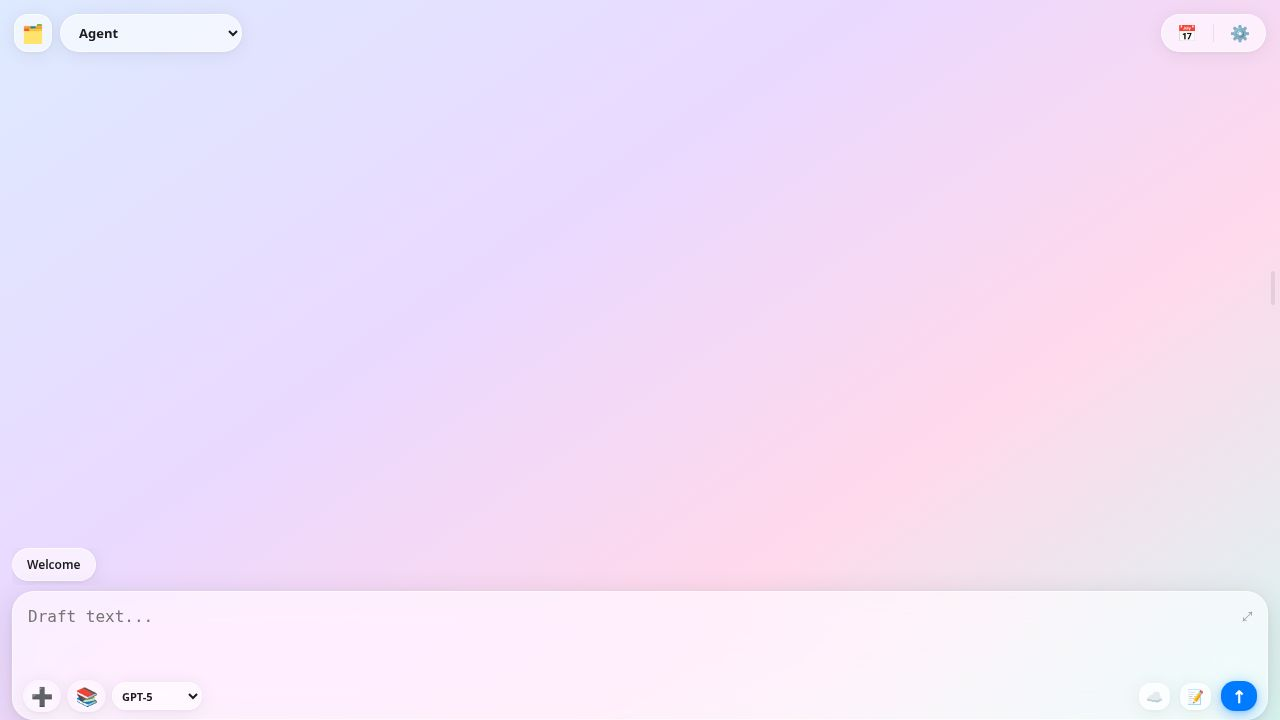
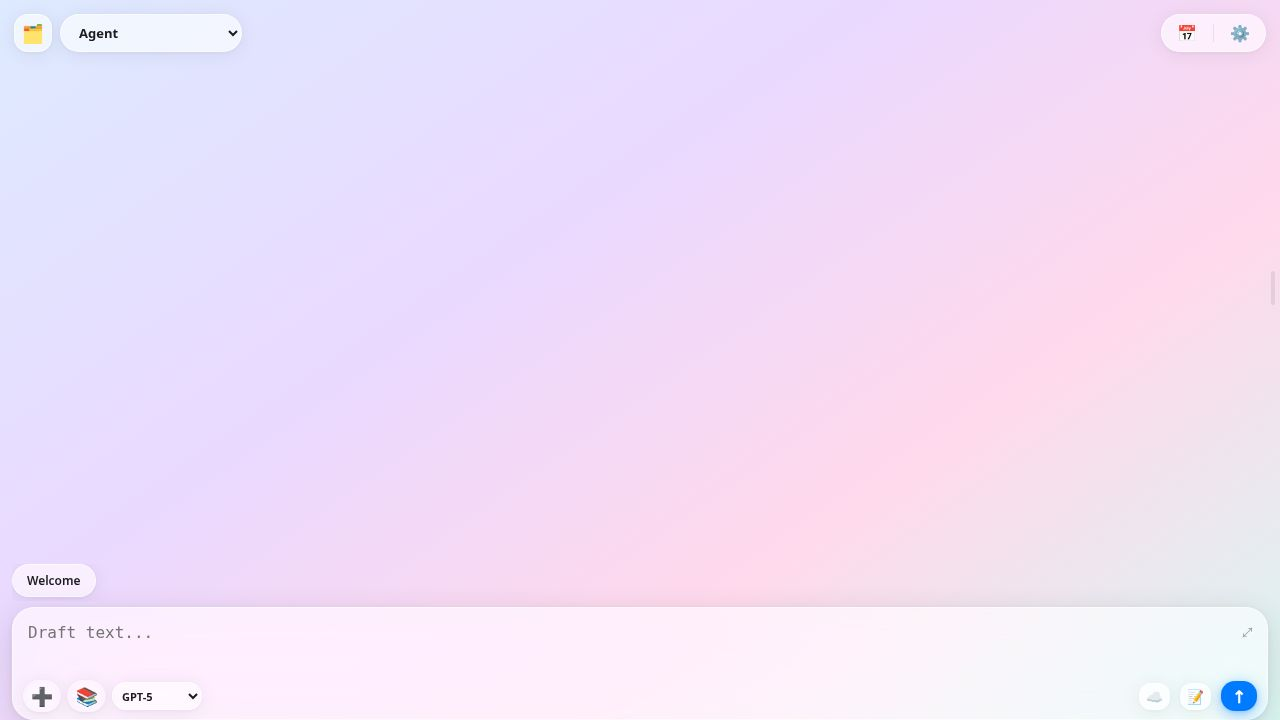
Restored to 'ac119a760e0b2145d7d24db5afbdec6ed4bd7766'
Replit-Restored-To: ac119a760e0b2145d7d24db5afbdec6ed4bd7766

Changed region(s): [[0.0, 0.7639, 0.75, 0.8861]]

diff --git a/artifacts/agentgpt/index.html b/artifacts/agentgpt/index.html
@@ -253,7 +253,7 @@ code { font-family: "SF Mono", ui-monospace, monospace; }
 }
 #attachment-preview { display: none; padding: 8px 14px 0 14px; gap: 8px; overflow-x: auto; white-space: nowrap; border-bottom: 0.5px solid var(--border); scrollbar-width: none; border-top-left-radius: 22px; border-top-right-radius: 22px; }
 #attachment-preview::-webkit-scrollbar { display: none; }
-#note-input { width: 100%; font-size: 16px; line-height: 1.5; border: none; border-radius: 22px; background: transparent; color: var(--text); outline: none; resize: none; min-height: 62px; max-height: 200px; padding: 13px 36px 66px 15px; transition: height 0.2s ease; }
+#note-input { width: 100%; font-size: 16px; line-height: 1.5; border: none; border-radius: 22px; background: transparent; color: var(--text); outline: none; resize: none; min-height: 62px; max-height: 200px; padding: 13px 36px 50px 15px; transition: height 0.2s ease; }
 #expand-btn { position: absolute; top: 9px; right: 10px; font-size: 16px; cursor: pointer; opacity: 0.4; z-index: 30; padding: 4px; transition: opacity 0.2s; }
 #expand-btn:active { opacity: 0.8; }
 
@@ -294,7 +294,6 @@ code { font-family: "SF Mono", ui-monospace, monospace; }
   pointer-events: auto;
   box-shadow: var(--glass-shadow-lg);
   border-radius: 20px;
-  overscroll-behavior: contain;
 }
 .side-panel.open { right: 0; }
 .left-panel {
@@ -324,11 +323,8 @@ code { font-family: "SF Mono", ui-monospace, monospace; }
   pointer-events: auto;
   box-shadow: var(--glass-shadow-lg);
   border-radius: 20px;
-  overscroll-behavior: contain;
 }
 .ctx-panel.open { right: 0; }
-/* Prevent scroll in panel children from bleeding into the chat scroll area */
-.side-panel > div, .ctx-panel > div { overscroll-behavior: contain; }
 
 .panel-header {
   padding: 13px 16px;
@@ -608,21 +604,9 @@ code { font-family: "SF Mono", ui-monospace, monospace; }
             <select id="def-prof-f" class="pp-input" style="flex:1;" onchange="saveMasterConfig()"></select>
             <select id="def-mod-f" class="pp-input" style="flex:1;" onchange="saveMasterConfig()"></select>
         </div>
-        <small style="font-weight:800; font-size:11px; color:#888; display:block; margin-top:10px;">BACKGROUND MODELS</small>
-        <div style="display:flex; flex-direction:column; gap:6px; margin-top:6px;">
-            <div style="display:flex; align-items:center; gap:8px;">
-                <small style="font-size:10px; color:#aaa; width:74px; flex-shrink:0;">Auto-title</small>
-                <select id="title-model-f" class="pp-input" style="flex:1;" onchange="saveMasterConfig()"></select>
-            </div>
-            <div style="display:flex; align-items:center; gap:8px;">
-                <small style="font-size:10px; color:#aaa; width:74px; flex-shrink:0;">Extraction</small>
-                <select id="extract-model-f" class="pp-input" style="flex:1;" onchange="saveMasterConfig()"></select>
-            </div>
-            <div style="display:flex; align-items:center; gap:8px;">
-                <small style="font-size:10px; color:#aaa; width:74px; flex-shrink:0;">Suggestions</small>
-                <select id="suggest-model-f" class="pp-input" style="flex:1;" onchange="saveMasterConfig()"></select>
-            </div>
-        </div>
+        <small style="font-weight:800; font-size:11px; color:#888; display:block; margin-top:10px;">BACKGROUND MODEL</small>
+        <small style="font-size:10px; color:#aaa; display:block; margin-bottom:6px;">Used for auto-titling, variable extraction &amp; suggestions</small>
+        <select id="bg-model-f" class="pp-input" style="width:100%;" onchange="saveMasterConfig()"></select>
         
         <hr style="border:none; border-top:1px solid var(--border); margin: 24px 0;">
         <div style="display:flex; justify-content:space-between; align-items:center; margin-bottom:8px;">
@@ -1051,7 +1035,7 @@ async function init() {
     }
     AI_PROFILES = sanitizeImport(await dbHelper.get('profiles') || DEFAULT_DATA.profiles, 'profiles'); PROMPTS = sanitizeImport(await dbHelper.get('prompts') || DEFAULT_DATA.prompts, 'prompts'); TEMPLATES = sanitizeImport(await dbHelper.get('templates') || DEFAULT_DATA.templates, 'templates'); API_SERVICES = sanitizeImport(await dbHelper.get('tools') || DEFAULT_DATA.tools, 'tools'); AI_MODELS = sanitizeImport(await dbHelper.get('models') || DEFAULT_DATA.models, 'models'); GLOBAL_DATASETS = await dbHelper.get('datasets') || {};
     const storedCfg = await dbHelper.get('config') || {};
-    CONFIG = { ai_key: storedCfg.ai_key || "", def_profile: storedCfg.def_profile || "", def_model: storedCfg.def_model || "", title_model: storedCfg.title_model || storedCfg.bg_model || "", extract_model: storedCfg.extract_model || storedCfg.bg_model || "", suggest_model: storedCfg.suggest_model || storedCfg.bg_model || "", ai_gen_prompts: storedCfg.ai_gen_prompts || { ...DEFAULT_DATA.ai_prompts }, ai_gen_models: storedCfg.ai_gen_models || {}, fb_api: storedCfg.fb_api || "", fb_project: storedCfg.fb_project || "", fb_auto: storedCfg.fb_auto || false, def_ctx: storedCfg.def_ctx || "all", cal_profiles: storedCfg.cal_profiles || null };
+    CONFIG = { ai_key: storedCfg.ai_key || "", def_profile: storedCfg.def_profile || "", def_model: storedCfg.def_model || "", bg_model: storedCfg.bg_model || "", ai_gen_prompts: storedCfg.ai_gen_prompts || { ...DEFAULT_DATA.ai_prompts }, ai_gen_models: storedCfg.ai_gen_models || {}, fb_api: storedCfg.fb_api || "", fb_project: storedCfg.fb_project || "", fb_auto: storedCfg.fb_auto || false, def_ctx: storedCfg.def_ctx || "all", cal_profiles: storedCfg.cal_profiles || null };
     chatHistories = await dbHelper.get('histories') || {};
     let migratedDs = false; Object.keys(chatHistories).forEach(p => { if (chatHistories[p].vars) { Object.assign(GLOBAL_DATASETS, chatHistories[p].vars); delete chatHistories[p].vars; migratedDs = true; } });
     if (migratedDs) { await dbHelper.set('histories', chatHistories); await dbHelper.set('datasets', GLOBAL_DATASETS); }
@@ -1068,14 +1052,14 @@ async function refreshUI() {
     const currentGlobalModel = document.getElementById('chatModel').value || CONFIG.def_model;
     let profOptions = AI_PROFILES.map(p => `<option value="${p.label}">${p.label}</option>`).join(''); profOptions += `<option value="_new_" style="color:var(--accent); font-weight:bold;">+ Create New Profile</option>`;
     document.getElementById('main-profile-sel').innerHTML = profOptions; document.getElementById('main-profile-sel').value = activeProfileLabel;
-    const mH = AI_MODELS.map(m => `<option value="${m.text}">${m.label}</option>`).join(''); const bgMH = `<option value="">(same as chat)</option>` + mH; document.getElementById('chatModel').innerHTML = mH; document.getElementById('ai-gen-model').innerHTML = mH; document.getElementById('p-model-set').innerHTML = `<option value="">(Keep Global Model)</option>` + mH; document.getElementById('title-model-f').innerHTML = bgMH; document.getElementById('extract-model-f').innerHTML = bgMH; document.getElementById('suggest-model-f').innerHTML = bgMH;
+    const mH = AI_MODELS.map(m => `<option value="${m.text}">${m.label}</option>`).join(''); document.getElementById('chatModel').innerHTML = mH; document.getElementById('ai-gen-model').innerHTML = mH; document.getElementById('p-model-set').innerHTML = `<option value="">(Keep Global Model)</option>` + mH; document.getElementById('bg-model-f').innerHTML = `<option value="">(same as chat)</option>` + mH;
     if(currentGlobalModel) document.getElementById('chatModel').value = currentGlobalModel;
     renderSessionVariables(); renderInlinePrompts();
     document.getElementById('context-list').innerHTML = CONTEXT_LINES.map((l,i) => `<li class="list-item ${cutIdx!==-1 && i<=cutIdx?'in-cut':''}"><input type="checkbox" class="ctx-checkbox" value="${i}" onchange="updateCtxSelection()"><div style="flex:1; white-space:normal; word-break:break-word; padding-right:8px; cursor:pointer;" onclick="insertContextAtCursor(${i})">${l}</div><div class="btn-row"><div class="inline-btn" onclick="event.stopPropagation(); cutIdx=(cutIdx===${i})?-1:${i}; refreshUI();">${cutIdx===i?'✂':'|'}</div></div></li>`).join('');
     updateCtxSelection(); 
     let ctxLabel = cutIdx === -1 ? '☁' : '🌦'; document.getElementById('ctx-indicator').innerText = ctxLabel; document.getElementById('ctx-btn-all').classList.toggle('active', cutIdx === CONTEXT_LINES.length - 1); document.getElementById('ctx-btn-none').classList.toggle('active', cutIdx === -1);
     document.getElementById('def-ctx-f').value = CONFIG.def_ctx || "all"; document.getElementById('def-prof-f').innerHTML = AI_PROFILES.map(p => `<option value="${p.label}">${p.label}</option>`).join(''); document.getElementById('def-mod-f').innerHTML = AI_MODELS.map(m => `<option value="${m.text}">${m.label}</option>`).join(''); document.getElementById('def-prof-f').value = CONFIG.def_profile; document.getElementById('def-mod-f').value = CONFIG.def_model;
-    document.getElementById('fb-project-f').value = CONFIG.fb_project || ""; document.getElementById('fb-api-f').value = CONFIG.fb_api || ""; document.getElementById('fb-auto-f').checked = CONFIG.fb_auto || false; document.getElementById('title-model-f').value = CONFIG.title_model || ""; document.getElementById('extract-model-f').value = CONFIG.extract_model || ""; document.getElementById('suggest-model-f').value = CONFIG.suggest_model || ""; document.getElementById('storage-usage-disp').innerText = (await getStorageSize()) + " MB (DB)";
+    document.getElementById('fb-project-f').value = CONFIG.fb_project || ""; document.getElementById('fb-api-f').value = CONFIG.fb_api || ""; document.getElementById('fb-auto-f').checked = CONFIG.fb_auto || false; document.getElementById('bg-model-f').value = CONFIG.bg_model || ""; document.getElementById('storage-usage-disp').innerText = (await getStorageSize()) + " MB (DB)";
 }
 
 function updateCtxSelection() { let boxes = document.querySelectorAll('.ctx-checkbox:checked'); let btn = document.getElementById('ctx-bulk-btn-wrapper'); if(boxes.length > 0) { btn.style.display = 'block'; btn.querySelector('button').innerText = `Insert ${boxes.length} Selected ⟶`; } else { btn.style.display = 'none'; } }
@@ -1159,11 +1143,9 @@ async function editExtractionRules() { let p = AI_PROFILES.find(x => x.label ===
 async function toggleVarLock(key) { let vars = getActiveVars(); if(typeof vars[key] === 'string') vars[key] = { value: vars[key], locked: false }; if(vars[key]) { vars[key].locked = !vars[key].locked; } else { vars[key] = { value: "", locked: true }; } await saveAll(); renderSessionVariables(); }
 async function deleteVariable(key) { openConfirm(`Delete variable {{${key}}} from profile?`, async () => { let p = AI_PROFILES.find(x => x.label === activeProfileLabel); if(p.expected_vars) p.expected_vars = p.expected_vars.filter(v => v !== key); let vars = getActiveVars(); if(vars) delete vars[key]; await saveAll(); renderSessionVariables(); }); }
 async function addManualVariable() { let key = await promptUserAsync("Enter variable name (e.g. order_id):"); if(!key) return; let p = AI_PROFILES.find(x => x.label === activeProfileLabel); if(!p.expected_vars) p.expected_vars = []; if(!p.expected_vars.includes(key)) p.expected_vars.push(key); let val = await promptUserAsync(`Enter value for {{${key}}}:`); if(val === null) return; let vars = getActiveVars(); vars[key] = { value: val, locked: false }; await saveAll(); renderSessionVariables(); }
-function getTitleModel()   { return CONFIG.title_model   || document.getElementById('chatModel').value; }
-function getExtractModel() { return CONFIG.extract_model || document.getElementById('chatModel').value; }
-function getSuggestModel() { return CONFIG.suggest_model || document.getElementById('chatModel').value; }
+function getBgModel() { return CONFIG.bg_model || document.getElementById('chatModel').value; }
 
-async function suggestVariablesAI() { if(!CONFIG.ai_key) return notify("Missing API Key", "#ff3b30"); notify("Suggesting variables...", "#007aff"); let p = AI_PROFILES.find(x => x.label === activeProfileLabel); let extra = document.getElementById('ai-suggest-prompt').value; let sysPrompt = `Based on the profile instructions: "${p.text}", suggest a JSON array of 3 to 5 short variable names (snake_case) that would be useful to extract and track in conversations. Return ONLY a valid JSON array of strings. e.g. ["customer_name", "order_id"]`; if(extra) sysPrompt += `\nUser Context/Requirement: ${extra}`; try { const res = await fetch("https://api.openai.com/v1/chat/completions", { method: "POST", headers: { "Content-Type": "application/json", "Authorization": `Bearer ${CONFIG.ai_key}` }, body: JSON.stringify({ model: getSuggestModel(), messages: [{role:"user", content: sysPrompt}] }) }); if(!res.ok) throw new Error("API Failure"); const d = await res.json(); let arr = JSON.parse(d.choices[0].message.content.replace(/```json/g, '').replace(/```/g, '').trim()); if(!p.expected_vars) p.expected_vars = []; let added = 0; arr.forEach(v => { if(!p.expected_vars.includes(v)) { p.expected_vars.push(v); added++; } }); await saveAll(); renderSessionVariables(); notify(`Added ${added} new variables!`, "#34c759"); document.getElementById('ai-suggest-prompt').value = ""; } catch(e) { notify("Failed to suggest.", "#ff3b30"); } }
+async function suggestVariablesAI() { if(!CONFIG.ai_key) return notify("Missing API Key", "#ff3b30"); notify("Suggesting variables...", "#007aff"); let p = AI_PROFILES.find(x => x.label === activeProfileLabel); let extra = document.getElementById('ai-suggest-prompt').value; let sysPrompt = `Based on the profile instructions: "${p.text}", suggest a JSON array of 3 to 5 short variable names (snake_case) that would be useful to extract and track in conversations. Return ONLY a valid JSON array of strings. e.g. ["customer_name", "order_id"]`; if(extra) sysPrompt += `\nUser Context/Requirement: ${extra}`; try { const res = await fetch("https://api.openai.com/v1/chat/completions", { method: "POST", headers: { "Content-Type": "application/json", "Authorization": `Bearer ${CONFIG.ai_key}` }, body: JSON.stringify({ model: getBgModel(), messages: [{role:"user", content: sysPrompt}] }) }); if(!res.ok) throw new Error("API Failure"); const d = await res.json(); let arr = JSON.parse(d.choices[0].message.content.replace(/```json/g, '').replace(/```/g, '').trim()); if(!p.expected_vars) p.expected_vars = []; let added = 0; arr.forEach(v => { if(!p.expected_vars.includes(v)) { p.expected_vars.push(v); added++; } }); await saveAll(); renderSessionVariables(); notify(`Added ${added} new variables!`, "#34c759"); document.getElementById('ai-suggest-prompt').value = ""; } catch(e) { notify("Failed to suggest.", "#ff3b30"); } }
 
 async function autoExtractVariables(isManual = false) {
     if(!CONFIG.ai_key) return; let p = AI_PROFILES.find(x => x.label === activeProfileLabel);
@@ -1178,7 +1160,7 @@ async function autoExtractVariables(isManual = false) {
     let historyText = allUserMsgs.join('\n'); let sysPrompt = `Extract values for these exact keys based on the chronological conversation history below (latest data is at the bottom): ${JSON.stringify(unlockedVars)}. Prefer the newest information if there are conflicts. Return a flat JSON object. If you cannot determine a value, omit the key or set it to empty string. Respond ONLY with valid JSON.`;
     if(p.extraction_rules) { sysPrompt += `\n\nFollow these specific rules for extraction:\n${p.extraction_rules}`; }
     try {
-        const res = await fetch("https://api.openai.com/v1/chat/completions", { method: "POST", headers: { "Content-Type": "application/json", "Authorization": `Bearer ${CONFIG.ai_key}` }, body: JSON.stringify({ model: getExtractModel(), messages: [{ role: "system", content: sysPrompt }, { role: "user", content: `Conversation:\n${historyText}` }], response_format: { type: "json_object" } }) });
+        const res = await fetch("https://api.openai.com/v1/chat/completions", { method: "POST", headers: { "Content-Type": "application/json", "Authorization": `Bearer ${CONFIG.ai_key}` }, body: JSON.stringify({ model: getBgModel(), messages: [{ role: "system", content: sysPrompt }, { role: "user", content: `Conversation:\n${historyText}` }], response_format: { type: "json_object" } }) });
         if(!res.ok) throw new Error("API Limit/Failure");
         const d = await res.json(); if (d.error) throw new Error(d.error.message); if (!d.choices) throw new Error("Invalid API response");
         let rawContent = d.choices[0].message.content.trim(); let extractedObj;
@@ -1206,14 +1188,14 @@ async function generateChatTitleAI(chatId) {
     if(!CONFIG.ai_key) return; let sData = getSessions(); let cur = sData.list.find(x => String(x.id) === String(chatId)); if(!cur || cur.msgs.length < 2) return; 
     let userMsgs = cur.msgs.filter(m => m.role === 'user').map(m => getTextFromContent(m.content)).join('\n').substring(0, 500);
     let sysPrompt = `Summarize the core topic of these messages into a very short title (2-5 words max). Return ONLY the title text without quotes.`;
-    try { const res = await fetch("https://api.openai.com/v1/chat/completions", { method: "POST", headers: { "Content-Type": "application/json", "Authorization": `Bearer ${CONFIG.ai_key}` }, body: JSON.stringify({ model: getTitleModel(), messages: [{ role: "system", content: sysPrompt }, { role: "user", content: userMsgs }] }) }); const d = await res.json(); let newTitle = d.choices[0].message.content.replace(/["']/g, '').trim(); cur.title = newTitle; await saveAll(); } catch(e) {}
+    try { const res = await fetch("https://api.openai.com/v1/chat/completions", { method: "POST", headers: { "Content-Type": "application/json", "Authorization": `Bearer ${CONFIG.ai_key}` }, body: JSON.stringify({ model: getBgModel(), messages: [{ role: "system", content: sysPrompt }, { role: "user", content: userMsgs }] }) }); const d = await res.json(); let newTitle = d.choices[0].message.content.replace(/["']/g, '').trim(); cur.title = newTitle; await saveAll(); } catch(e) {}
 }
 
 async function generateDatasetTitleAI(var_id) {
     if(!CONFIG.ai_key) return; let ds = GLOBAL_DATASETS[var_id]; if(!ds || !ds.data || Object.keys(ds.data).length === 0) return;
     let valStr = JSON.stringify(Object.fromEntries(Object.entries(ds.data).map(([k,v]) => [k, v.value]))); let sysPrompt = `Based on these extracted variables, generate a short title (2-5 words max) identifying this data set (e.g. "John's Flight Booking", "Project Alpha Specs"). Return ONLY the title text without quotes. Data: ${valStr}`;
     try { 
-        const res = await fetch("https://api.openai.com/v1/chat/completions", { method: "POST", headers: { "Content-Type": "application/json", "Authorization": `Bearer ${CONFIG.ai_key}` }, body: JSON.stringify({ model: getTitleModel(), messages: [{ role: "system", content: sysPrompt }] }) }); 
+        const res = await fetch("https://api.openai.com/v1/chat/completions", { method: "POST", headers: { "Content-Type": "application/json", "Authorization": `Bearer ${CONFIG.ai_key}` }, body: JSON.stringify({ model: getBgModel(), messages: [{ role: "system", content: sysPrompt }] }) }); 
         const d = await res.json(); ds.title = d.choices[0].message.content.replace(/["']/g, '').trim(); 
         await saveAll(); 
         let sData = getSessions(); let cur = sData.list.find(x => String(x.id) === String(sData.current)); 
@@ -1306,12 +1288,7 @@ function escapeHtmlOutsideFences(text) {
 }
 
 function renderChatHistory() {
-    const container = document.getElementById('chat-container');
-    // Skip full rebuild if content hasn't changed — prevents flicker during background syncs
-    const fp = chatHistory.length + '|' + chatHistory.reduce((s, m) => s + getTextFromContent(m.content).length, 0);
-    if(container.dataset.fp === fp && container.children.length > 0) return;
-    container.dataset.fp = fp;
-    container.innerHTML = "";
+    const container = document.getElementById('chat-container'); container.innerHTML = "";
     chatHistory.forEach((msg, idx) => {
         if(idx === 0 && msg.role === 'developer') return; const side = msg.role === 'user' ? 'user' : 'ai'; 
         let text = getTextFromContent(msg.content);
@@ -1509,9 +1486,7 @@ async function saveMasterConfig() {
     const prevFbApi = CONFIG.fb_api, prevFbProject = CONFIG.fb_project;
     CONFIG.ai_key = document.getElementById('ai-key-f').value; CONFIG.def_profile = document.getElementById('def-prof-f').value; CONFIG.def_model = document.getElementById('def-mod-f').value; 
     CONFIG.fb_project = document.getElementById('fb-project-f').value.trim(); CONFIG.fb_api = document.getElementById('fb-api-f').value.trim(); CONFIG.fb_auto = document.getElementById('fb-auto-f').checked;
-    CONFIG.title_model = document.getElementById('title-model-f').value;
-    CONFIG.extract_model = document.getElementById('extract-model-f').value;
-    CONFIG.suggest_model = document.getElementById('suggest-model-f').value;
+    CONFIG.bg_model = document.getElementById('bg-model-f').value;
     CONFIG.def_ctx = document.getElementById('def-ctx-f').value;
     await saveAll(); await refreshUI(); notify("Config Saved!", "#34c759");
     const credentialsChanged = CONFIG.fb_api !== prevFbApi || CONFIG.fb_project !== prevFbProject;
@@ -1751,14 +1726,6 @@ async function pullFromFirebase(silent = false) {
             if(data.chunks_count > 0) { let fullStr = ""; for(let i=0; i<data.chunks_count; i++) { let chunkSnap = await getDoc(doc(db, "quicknote_data", "primary_hist_"+i)); if(chunkSnap.exists()) fullStr += chunkSnap.data().data; } if(fullStr) chatHistories = JSON.parse(fullStr); } else if(data.histories) { chatHistories = data.histories; }
             if(!AI_PROFILES.find(p => p.label === localProfileLabel)) activeProfileLabel = AI_PROFILES[0] ? AI_PROFILES[0].label : "";
 
-            // ── Restore local "current" session pointer — which session is open is device-local
-            // state and must never be overwritten by another device's cloud value.
-            if(localSessionId && chatHistories[localProfileLabel]) {
-                const sessionStillExists = chatHistories[localProfileLabel].list?.find(x => String(x.id) === String(localSessionId));
-                if(sessionStillExists) chatHistories[localProfileLabel].current = localSessionId;
-                // If the local session was deleted on cloud, fall through to whatever cloud has
-            }
-
             // ── Merge: protect local messages that haven't been pushed yet ──
             // If local in-memory session has MORE messages than the cloud copy of that same
             // session, the local messages are newer (push debounce hasn't fired). Keep them.
@@ -1799,7 +1766,7 @@ async function pullFromFirebase(silent = false) {
             // Mark cloud baseline so pushes are unblocked and polls don't re-pull same data
             if(data.last_sync) lastPushedSyncTime = data.last_sync;
             let countChats = 0; Object.values(chatHistories).forEach(p => countChats += (p.list ? p.list.length : 0)); addLog("SYNC", "Cloud Pull", `Loaded ${countChats} Chats.`);
-            if(!silent) notify("☁ Synced from cloud!", "#34c759");
+            if(!silent) notify("☁ Synced from cloud!", "#34c759"); else notify("↓ Synced", "#34c759", 1500);
         }
     } catch(e) { addLog("SYNC", "Pull Error", e.message); if(!silent) notify("⚠ Sync pull failed: " + (e.code || e.message || "unknown"), "#ff3b30", 5000); }
     finally { pullInProgress = false; }

diff --git a/artifacts/api-server/public/index.html b/artifacts/api-server/public/index.html
@@ -253,7 +253,7 @@ code { font-family: "SF Mono", ui-monospace, monospace; }
 }
 #attachment-preview { display: none; padding: 8px 14px 0 14px; gap: 8px; overflow-x: auto; white-space: nowrap; border-bottom: 0.5px solid var(--border); scrollbar-width: none; border-top-left-radius: 22px; border-top-right-radius: 22px; }
 #attachment-preview::-webkit-scrollbar { display: none; }
-#note-input { width: 100%; font-size: 16px; line-height: 1.5; border: none; border-radius: 22px; background: transparent; color: var(--text); outline: none; resize: none; min-height: 62px; max-height: 200px; padding: 13px 36px 66px 15px; transition: height 0.2s ease; }
+#note-input { width: 100%; font-size: 16px; line-height: 1.5; border: none; border-radius: 22px; background: transparent; color: var(--text); outline: none; resize: none; min-height: 62px; max-height: 200px; padding: 13px 36px 50px 15px; transition: height 0.2s ease; }
 #expand-btn { position: absolute; top: 9px; right: 10px; font-size: 16px; cursor: pointer; opacity: 0.4; z-index: 30; padding: 4px; transition: opacity 0.2s; }
 #expand-btn:active { opacity: 0.8; }
 
@@ -294,7 +294,6 @@ code { font-family: "SF Mono", ui-monospace, monospace; }
   pointer-events: auto;
   box-shadow: var(--glass-shadow-lg);
   border-radius: 20px;
-  overscroll-behavior: contain;
 }
 .side-panel.open { right: 0; }
 .left-panel {
@@ -324,11 +323,8 @@ code { font-family: "SF Mono", ui-monospace, monospace; }
   pointer-events: auto;
   box-shadow: var(--glass-shadow-lg);
   border-radius: 20px;
-  overscroll-behavior: contain;
 }
 .ctx-panel.open { right: 0; }
-/* Prevent scroll in panel children from bleeding into the chat scroll area */
-.side-panel > div, .ctx-panel > div { overscroll-behavior: contain; }
 
 .panel-header {
   padding: 13px 16px;
@@ -608,21 +604,9 @@ code { font-family: "SF Mono", ui-monospace, monospace; }
             <select id="def-prof-f" class="pp-input" style="flex:1;" onchange="saveMasterConfig()"></select>
             <select id="def-mod-f" class="pp-input" style="flex:1;" onchange="saveMasterConfig()"></select>
         </div>
-        <small style="font-weight:800; font-size:11px; color:#888; display:block; margin-top:10px;">BACKGROUND MODELS</small>
-        <div style="display:flex; flex-direction:column; gap:6px; margin-top:6px;">
-            <div style="display:flex; align-items:center; gap:8px;">
-                <small style="font-size:10px; color:#aaa; width:74px; flex-shrink:0;">Auto-title</small>
-                <select id="title-model-f" class="pp-input" style="flex:1;" onchange="saveMasterConfig()"></select>
-            </div>
-            <div style="display:flex; align-items:center; gap:8px;">
-                <small style="font-size:10px; color:#aaa; width:74px; flex-shrink:0;">Extraction</small>
-                <select id="extract-model-f" class="pp-input" style="flex:1;" onchange="saveMasterConfig()"></select>
-            </div>
-            <div style="display:flex; align-items:center; gap:8px;">
-                <small style="font-size:10px; color:#aaa; width:74px; flex-shrink:0;">Suggestions</small>
-                <select id="suggest-model-f" class="pp-input" style="flex:1;" onchange="saveMasterConfig()"></select>
-            </div>
-        </div>
+        <small style="font-weight:800; font-size:11px; color:#888; display:block; margin-top:10px;">BACKGROUND MODEL</small>
+        <small style="font-size:10px; color:#aaa; display:block; margin-bottom:6px;">Used for auto-titling, variable extraction &amp; suggestions</small>
+        <select id="bg-model-f" class="pp-input" style="width:100%;" onchange="saveMasterConfig()"></select>
         
         <hr style="border:none; border-top:1px solid var(--border); margin: 24px 0;">
         <div style="display:flex; justify-content:space-between; align-items:center; margin-bottom:8px;">
@@ -1051,7 +1035,7 @@ async function init() {
     }
     AI_PROFILES = sanitizeImport(await dbHelper.get('profiles') || DEFAULT_DATA.profiles, 'profiles'); PROMPTS = sanitizeImport(await dbHelper.get('prompts') || DEFAULT_DATA.prompts, 'prompts'); TEMPLATES = sanitizeImport(await dbHelper.get('templates') || DEFAULT_DATA.templates, 'templates'); API_SERVICES = sanitizeImport(await dbHelper.get('tools') || DEFAULT_DATA.tools, 'tools'); AI_MODELS = sanitizeImport(await dbHelper.get('models') || DEFAULT_DATA.models, 'models'); GLOBAL_DATASETS = await dbHelper.get('datasets') || {};
     const storedCfg = await dbHelper.get('config') || {};
-    CONFIG = { ai_key: storedCfg.ai_key || "", def_profile: storedCfg.def_profile || "", def_model: storedCfg.def_model || "", title_model: storedCfg.title_model || storedCfg.bg_model || "", extract_model: storedCfg.extract_model || storedCfg.bg_model || "", suggest_model: storedCfg.suggest_model || storedCfg.bg_model || "", ai_gen_prompts: storedCfg.ai_gen_prompts || { ...DEFAULT_DATA.ai_prompts }, ai_gen_models: storedCfg.ai_gen_models || {}, fb_api: storedCfg.fb_api || "", fb_project: storedCfg.fb_project || "", fb_auto: storedCfg.fb_auto || false, def_ctx: storedCfg.def_ctx || "all", cal_profiles: storedCfg.cal_profiles || null };
+    CONFIG = { ai_key: storedCfg.ai_key || "", def_profile: storedCfg.def_profile || "", def_model: storedCfg.def_model || "", bg_model: storedCfg.bg_model || "", ai_gen_prompts: storedCfg.ai_gen_prompts || { ...DEFAULT_DATA.ai_prompts }, ai_gen_models: storedCfg.ai_gen_models || {}, fb_api: storedCfg.fb_api || "", fb_project: storedCfg.fb_project || "", fb_auto: storedCfg.fb_auto || false, def_ctx: storedCfg.def_ctx || "all", cal_profiles: storedCfg.cal_profiles || null };
     chatHistories = await dbHelper.get('histories') || {};
     let migratedDs = false; Object.keys(chatHistories).forEach(p => { if (chatHistories[p].vars) { Object.assign(GLOBAL_DATASETS, chatHistories[p].vars); delete chatHistories[p].vars; migratedDs = true; } });
     if (migratedDs) { await dbHelper.set('histories', chatHistories); await dbHelper.set('datasets', GLOBAL_DATASETS); }
@@ -1068,14 +1052,14 @@ async function refreshUI() {
     const currentGlobalModel = document.getElementById('chatModel').value || CONFIG.def_model;
     let profOptions = AI_PROFILES.map(p => `<option value="${p.label}">${p.label}</option>`).join(''); profOptions += `<option value="_new_" style="color:var(--accent); font-weight:bold;">+ Create New Profile</option>`;
     document.getElementById('main-profile-sel').innerHTML = profOptions; document.getElementById('main-profile-sel').value = activeProfileLabel;
-    const mH = AI_MODELS.map(m => `<option value="${m.text}">${m.label}</option>`).join(''); const bgMH = `<option value="">(same as chat)</option>` + mH; document.getElementById('chatModel').innerHTML = mH; document.getElementById('ai-gen-model').innerHTML = mH; document.getElementById('p-model-set').innerHTML = `<option value="">(Keep Global Model)</option>` + mH; document.getElementById('title-model-f').innerHTML = bgMH; document.getElementById('extract-model-f').innerHTML = bgMH; document.getElementById('suggest-model-f').innerHTML = bgMH;
+    const mH = AI_MODELS.map(m => `<option value="${m.text}">${m.label}</option>`).join(''); document.getElementById('chatModel').innerHTML = mH; document.getElementById('ai-gen-model').innerHTML = mH; document.getElementById('p-model-set').innerHTML = `<option value="">(Keep Global Model)</option>` + mH; document.getElementById('bg-model-f').innerHTML = `<option value="">(same as chat)</option>` + mH;
     if(currentGlobalModel) document.getElementById('chatModel').value = currentGlobalModel;
     renderSessionVariables(); renderInlinePrompts();
     document.getElementById('context-list').innerHTML = CONTEXT_LINES.map((l,i) => `<li class="list-item ${cutIdx!==-1 && i<=cutIdx?'in-cut':''}"><input type="checkbox" class="ctx-checkbox" value="${i}" onchange="updateCtxSelection()"><div style="flex:1; white-space:normal; word-break:break-word; padding-right:8px; cursor:pointer;" onclick="insertContextAtCursor(${i})">${l}</div><div class="btn-row"><div class="inline-btn" onclick="event.stopPropagation(); cutIdx=(cutIdx===${i})?-1:${i}; refreshUI();">${cutIdx===i?'✂':'|'}</div></div></li>`).join('');
     updateCtxSelection(); 
     let ctxLabel = cutIdx === -1 ? '☁' : '🌦'; document.getElementById('ctx-indicator').innerText = ctxLabel; document.getElementById('ctx-btn-all').classList.toggle('active', cutIdx === CONTEXT_LINES.length - 1); document.getElementById('ctx-btn-none').classList.toggle('active', cutIdx === -1);
     document.getElementById('def-ctx-f').value = CONFIG.def_ctx || "all"; document.getElementById('def-prof-f').innerHTML = AI_PROFILES.map(p => `<option value="${p.label}">${p.label}</option>`).join(''); document.getElementById('def-mod-f').innerHTML = AI_MODELS.map(m => `<option value="${m.text}">${m.label}</option>`).join(''); document.getElementById('def-prof-f').value = CONFIG.def_profile; document.getElementById('def-mod-f').value = CONFIG.def_model;
-    document.getElementById('fb-project-f').value = CONFIG.fb_project || ""; document.getElementById('fb-api-f').value = CONFIG.fb_api || ""; document.getElementById('fb-auto-f').checked = CONFIG.fb_auto || false; document.getElementById('title-model-f').value = CONFIG.title_model || ""; document.getElementById('extract-model-f').value = CONFIG.extract_model || ""; document.getElementById('suggest-model-f').value = CONFIG.suggest_model || ""; document.getElementById('storage-usage-disp').innerText = (await getStorageSize()) + " MB (DB)";
+    document.getElementById('fb-project-f').value = CONFIG.fb_project || ""; document.getElementById('fb-api-f').value = CONFIG.fb_api || ""; document.getElementById('fb-auto-f').checked = CONFIG.fb_auto || false; document.getElementById('bg-model-f').value = CONFIG.bg_model || ""; document.getElementById('storage-usage-disp').innerText = (await getStorageSize()) + " MB (DB)";
 }
 
 function updateCtxSelection() { let boxes = document.querySelectorAll('.ctx-checkbox:checked'); let btn = document.getElementById('ctx-bulk-btn-wrapper'); if(boxes.length > 0) { btn.style.display = 'block'; btn.querySelector('button').innerText = `Insert ${boxes.length} Selected ⟶`; } else { btn.style.display = 'none'; } }
@@ -1159,11 +1143,9 @@ async function editExtractionRules() { let p = AI_PROFILES.find(x => x.label ===
 async function toggleVarLock(key) { let vars = getActiveVars(); if(typeof vars[key] === 'string') vars[key] = { value: vars[key], locked: false }; if(vars[key]) { vars[key].locked = !vars[key].locked; } else { vars[key] = { value: "", locked: true }; } await saveAll(); renderSessionVariables(); }
 async function deleteVariable(key) { openConfirm(`Delete variable {{${key}}} from profile?`, async () => { let p = AI_PROFILES.find(x => x.label === activeProfileLabel); if(p.expected_vars) p.expected_vars = p.expected_vars.filter(v => v !== key); let vars = getActiveVars(); if(vars) delete vars[key]; await saveAll(); renderSessionVariables(); }); }
 async function addManualVariable() { let key = await promptUserAsync("Enter variable name (e.g. order_id):"); if(!key) return; let p = AI_PROFILES.find(x => x.label === activeProfileLabel); if(!p.expected_vars) p.expected_vars = []; if(!p.expected_vars.includes(key)) p.expected_vars.push(key); let val = await promptUserAsync(`Enter value for {{${key}}}:`); if(val === null) return; let vars = getActiveVars(); vars[key] = { value: val, locked: false }; await saveAll(); renderSessionVariables(); }
-function getTitleModel()   { return CONFIG.title_model   || document.getElementById('chatModel').value; }
-function getExtractModel() { return CONFIG.extract_model || document.getElementById('chatModel').value; }
-function getSuggestModel() { return CONFIG.suggest_model || document.getElementById('chatModel').value; }
+function getBgModel() { return CONFIG.bg_model || document.getElementById('chatModel').value; }
 
-async function suggestVariablesAI() { if(!CONFIG.ai_key) return notify("Missing API Key", "#ff3b30"); notify("Suggesting variables...", "#007aff"); let p = AI_PROFILES.find(x => x.label === activeProfileLabel); let extra = document.getElementById('ai-suggest-prompt').value; let sysPrompt = `Based on the profile instructions: "${p.text}", suggest a JSON array of 3 to 5 short variable names (snake_case) that would be useful to extract and track in conversations. Return ONLY a valid JSON array of strings. e.g. ["customer_name", "order_id"]`; if(extra) sysPrompt += `\nUser Context/Requirement: ${extra}`; try { const res = await fetch("https://api.openai.com/v1/chat/completions", { method: "POST", headers: { "Content-Type": "application/json", "Authorization": `Bearer ${CONFIG.ai_key}` }, body: JSON.stringify({ model: getSuggestModel(), messages: [{role:"user", content: sysPrompt}] }) }); if(!res.ok) throw new Error("API Failure"); const d = await res.json(); let arr = JSON.parse(d.choices[0].message.content.replace(/```json/g, '').replace(/```/g, '').trim()); if(!p.expected_vars) p.expected_vars = []; let added = 0; arr.forEach(v => { if(!p.expected_vars.includes(v)) { p.expected_vars.push(v); added++; } }); await saveAll(); renderSessionVariables(); notify(`Added ${added} new variables!`, "#34c759"); document.getElementById('ai-suggest-prompt').value = ""; } catch(e) { notify("Failed to suggest.", "#ff3b30"); } }
+async function suggestVariablesAI() { if(!CONFIG.ai_key) return notify("Missing API Key", "#ff3b30"); notify("Suggesting variables...", "#007aff"); let p = AI_PROFILES.find(x => x.label === activeProfileLabel); let extra = document.getElementById('ai-suggest-prompt').value; let sysPrompt = `Based on the profile instructions: "${p.text}", suggest a JSON array of 3 to 5 short variable names (snake_case) that would be useful to extract and track in conversations. Return ONLY a valid JSON array of strings. e.g. ["customer_name", "order_id"]`; if(extra) sysPrompt += `\nUser Context/Requirement: ${extra}`; try { const res = await fetch("https://api.openai.com/v1/chat/completions", { method: "POST", headers: { "Content-Type": "application/json", "Authorization": `Bearer ${CONFIG.ai_key}` }, body: JSON.stringify({ model: getBgModel(), messages: [{role:"user", content: sysPrompt}] }) }); if(!res.ok) throw new Error("API Failure"); const d = await res.json(); let arr = JSON.parse(d.choices[0].message.content.replace(/```json/g, '').replace(/```/g, '').trim()); if(!p.expected_vars) p.expected_vars = []; let added = 0; arr.forEach(v => { if(!p.expected_vars.includes(v)) { p.expected_vars.push(v); added++; } }); await saveAll(); renderSessionVariables(); notify(`Added ${added} new variables!`, "#34c759"); document.getElementById('ai-suggest-prompt').value = ""; } catch(e) { notify("Failed to suggest.", "#ff3b30"); } }
 
 async function autoExtractVariables(isManual = false) {
     if(!CONFIG.ai_key) return; let p = AI_PROFILES.find(x => x.label === activeProfileLabel);
@@ -1178,7 +1160,7 @@ async function autoExtractVariables(isManual = false) {
     let historyText = allUserMsgs.join('\n'); let sysPrompt = `Extract values for these exact keys based on the chronological conversation history below (latest data is at the bottom): ${JSON.stringify(unlockedVars)}. Prefer the newest information if there are conflicts. Return a flat JSON object. If you cannot determine a value, omit the key or set it to empty string. Respond ONLY with valid JSON.`;
     if(p.extraction_rules) { sysPrompt += `\n\nFollow these specific rules for extraction:\n${p.extraction_rules}`; }
     try {
-        const res = await fetch("https://api.openai.com/v1/chat/completions", { method: "POST", headers: { "Content-Type": "application/json", "Authorization": `Bearer ${CONFIG.ai_key}` }, body: JSON.stringify({ model: getExtractModel(), messages: [{ role: "system", content: sysPrompt }, { role: "user", content: `Conversation:\n${historyText}` }], response_format: { type: "json_object" } }) });
+        const res = await fetch("https://api.openai.com/v1/chat/completions", { method: "POST", headers: { "Content-Type": "application/json", "Authorization": `Bearer ${CONFIG.ai_key}` }, body: JSON.stringify({ model: getBgModel(), messages: [{ role: "system", content: sysPrompt }, { role: "user", content: `Conversation:\n${historyText}` }], response_format: { type: "json_object" } }) });
         if(!res.ok) throw new Error("API Limit/Failure");
         const d = await res.json(); if (d.error) throw new Error(d.error.message); if (!d.choices) throw new Error("Invalid API response");
         let rawContent = d.choices[0].message.content.trim(); let extractedObj;
@@ -1206,14 +1188,14 @@ async function generateChatTitleAI(chatId) {
     if(!CONFIG.ai_key) return; let sData = getSessions(); let cur = sData.list.find(x => String(x.id) === String(chatId)); if(!cur || cur.msgs.length < 2) return; 
     let userMsgs = cur.msgs.filter(m => m.role === 'user').map(m => getTextFromContent(m.content)).join('\n').substring(0, 500);
     let sysPrompt = `Summarize the core topic of these messages into a very short title (2-5 words max). Return ONLY the title text without quotes.`;
-    try { const res = await fetch("https://api.openai.com/v1/chat/completions", { method: "POST", headers: { "Content-Type": "application/json", "Authorization": `Bearer ${CONFIG.ai_key}` }, body: JSON.stringify({ model: getTitleModel(), messages: [{ role: "system", content: sysPrompt }, { role: "user", content: userMsgs }] }) }); const d = await res.json(); let newTitle = d.choices[0].message.content.replace(/["']/g, '').trim(); cur.title = newTitle; await saveAll(); } catch(e) {}
+    try { const res = await fetch("https://api.openai.com/v1/chat/completions", { method: "POST", headers: { "Content-Type": "application/json", "Authorization": `Bearer ${CONFIG.ai_key}` }, body: JSON.stringify({ model: getBgModel(), messages: [{ role: "system", content: sysPrompt }, { role: "user", content: userMsgs }] }) }); const d = await res.json(); let newTitle = d.choices[0].message.content.replace(/["']/g, '').trim(); cur.title = newTitle; await saveAll(); } catch(e) {}
 }
 
 async function generateDatasetTitleAI(var_id) {
     if(!CONFIG.ai_key) return; let ds = GLOBAL_DATASETS[var_id]; if(!ds || !ds.data || Object.keys(ds.data).length === 0) return;
     let valStr = JSON.stringify(Object.fromEntries(Object.entries(ds.data).map(([k,v]) => [k, v.value]))); let sysPrompt = `Based on these extracted variables, generate a short title (2-5 words max) identifying this data set (e.g. "John's Flight Booking", "Project Alpha Specs"). Return ONLY the title text without quotes. Data: ${valStr}`;
     try { 
-        const res = await fetch("https://api.openai.com/v1/chat/completions", { method: "POST", headers: { "Content-Type": "application/json", "Authorization": `Bearer ${CONFIG.ai_key}` }, body: JSON.stringify({ model: getTitleModel(), messages: [{ role: "system", content: sysPrompt }] }) }); 
+        const res = await fetch("https://api.openai.com/v1/chat/completions", { method: "POST", headers: { "Content-Type": "application/json", "Authorization": `Bearer ${CONFIG.ai_key}` }, body: JSON.stringify({ model: getBgModel(), messages: [{ role: "system", content: sysPrompt }] }) }); 
         const d = await res.json(); ds.title = d.choices[0].message.content.replace(/["']/g, '').trim(); 
         await saveAll(); 
         let sData = getSessions(); let cur = sData.list.find(x => String(x.id) === String(sData.current)); 
@@ -1306,12 +1288,7 @@ function escapeHtmlOutsideFences(text) {
 }
 
 function renderChatHistory() {
-    const container = document.getElementById('chat-container');
-    // Skip full rebuild if content hasn't changed — prevents flicker during background syncs
-    const fp = chatHistory.length + '|' + chatHistory.reduce((s, m) => s + getTextFromContent(m.content).length, 0);
-    if(container.dataset.fp === fp && container.children.length > 0) return;
-    container.dataset.fp = fp;
-    container.innerHTML = "";
+    const container = document.getElementById('chat-container'); container.innerHTML = "";
     chatHistory.forEach((msg, idx) => {
         if(idx === 0 && msg.role === 'developer') return; const side = msg.role === 'user' ? 'user' : 'ai'; 
         let text = getTextFromContent(msg.content);
@@ -1509,9 +1486,7 @@ async function saveMasterConfig() {
     const prevFbApi = CONFIG.fb_api, prevFbProject = CONFIG.fb_project;
     CONFIG.ai_key = document.getElementById('ai-key-f').value; CONFIG.def_profile = document.getElementById('def-prof-f').value; CONFIG.def_model = document.getElementById('def-mod-f').value; 
     CONFIG.fb_project = document.getElementById('fb-project-f').value.trim(); CONFIG.fb_api = document.getElementById('fb-api-f').value.trim(); CONFIG.fb_auto = document.getElementById('fb-auto-f').checked;
-    CONFIG.title_model = document.getElementById('title-model-f').value;
-    CONFIG.extract_model = document.getElementById('extract-model-f').value;
-    CONFIG.suggest_model = document.getElementById('suggest-model-f').value;
+    CONFIG.bg_model = document.getElementById('bg-model-f').value;
     CONFIG.def_ctx = document.getElementById('def-ctx-f').value;
     await saveAll(); await refreshUI(); notify("Config Saved!", "#34c759");
     const credentialsChanged = CONFIG.fb_api !== prevFbApi || CONFIG.fb_project !== prevFbProject;
@@ -1751,14 +1726,6 @@ async function pullFromFirebase(silent = false) {
             if(data.chunks_count > 0) { let fullStr = ""; for(let i=0; i<data.chunks_count; i++) { let chunkSnap = await getDoc(doc(db, "quicknote_data", "primary_hist_"+i)); if(chunkSnap.exists()) fullStr += chunkSnap.data().data; } if(fullStr) chatHistories = JSON.parse(fullStr); } else if(data.histories) { chatHistories = data.histories; }
             if(!AI_PROFILES.find(p => p.label === localProfileLabel)) activeProfileLabel = AI_PROFILES[0] ? AI_PROFILES[0].label : "";
 
-            // ── Restore local "current" session pointer — which session is open is device-local
-            // state and must never be overwritten by another device's cloud value.
-            if(localSessionId && chatHistories[localProfileLabel]) {
-                const sessionStillExists = chatHistories[localProfileLabel].list?.find(x => String(x.id) === String(localSessionId));
-                if(sessionStillExists) chatHistories[localProfileLabel].current = localSessionId;
-                // If the local session was deleted on cloud, fall through to whatever cloud has
-            }
-
             // ── Merge: protect local messages that haven't been pushed yet ──
             // If local in-memory session has MORE messages than the cloud copy of that same
             // session, the local messages are newer (push debounce hasn't fired). Keep them.
@@ -1799,7 +1766,7 @@ async function pullFromFirebase(silent = false) {
             // Mark cloud baseline so pushes are unblocked and polls don't re-pull same data
             if(data.last_sync) lastPushedSyncTime = data.last_sync;
             let countChats = 0; Object.values(chatHistories).forEach(p => countChats += (p.list ? p.list.length : 0)); addLog("SYNC", "Cloud Pull", `Loaded ${countChats} Chats.`);
-            if(!silent) notify("☁ Synced from cloud!", "#34c759");
+            if(!silent) notify("☁ Synced from cloud!", "#34c759"); else notify("↓ Synced", "#34c759", 1500);
         }
     } catch(e) { addLog("SYNC", "Pull Error", e.message); if(!silent) notify("⚠ Sync pull failed: " + (e.code || e.message || "unknown"), "#ff3b30", 5000); }
     finally { pullInProgress = false; }
